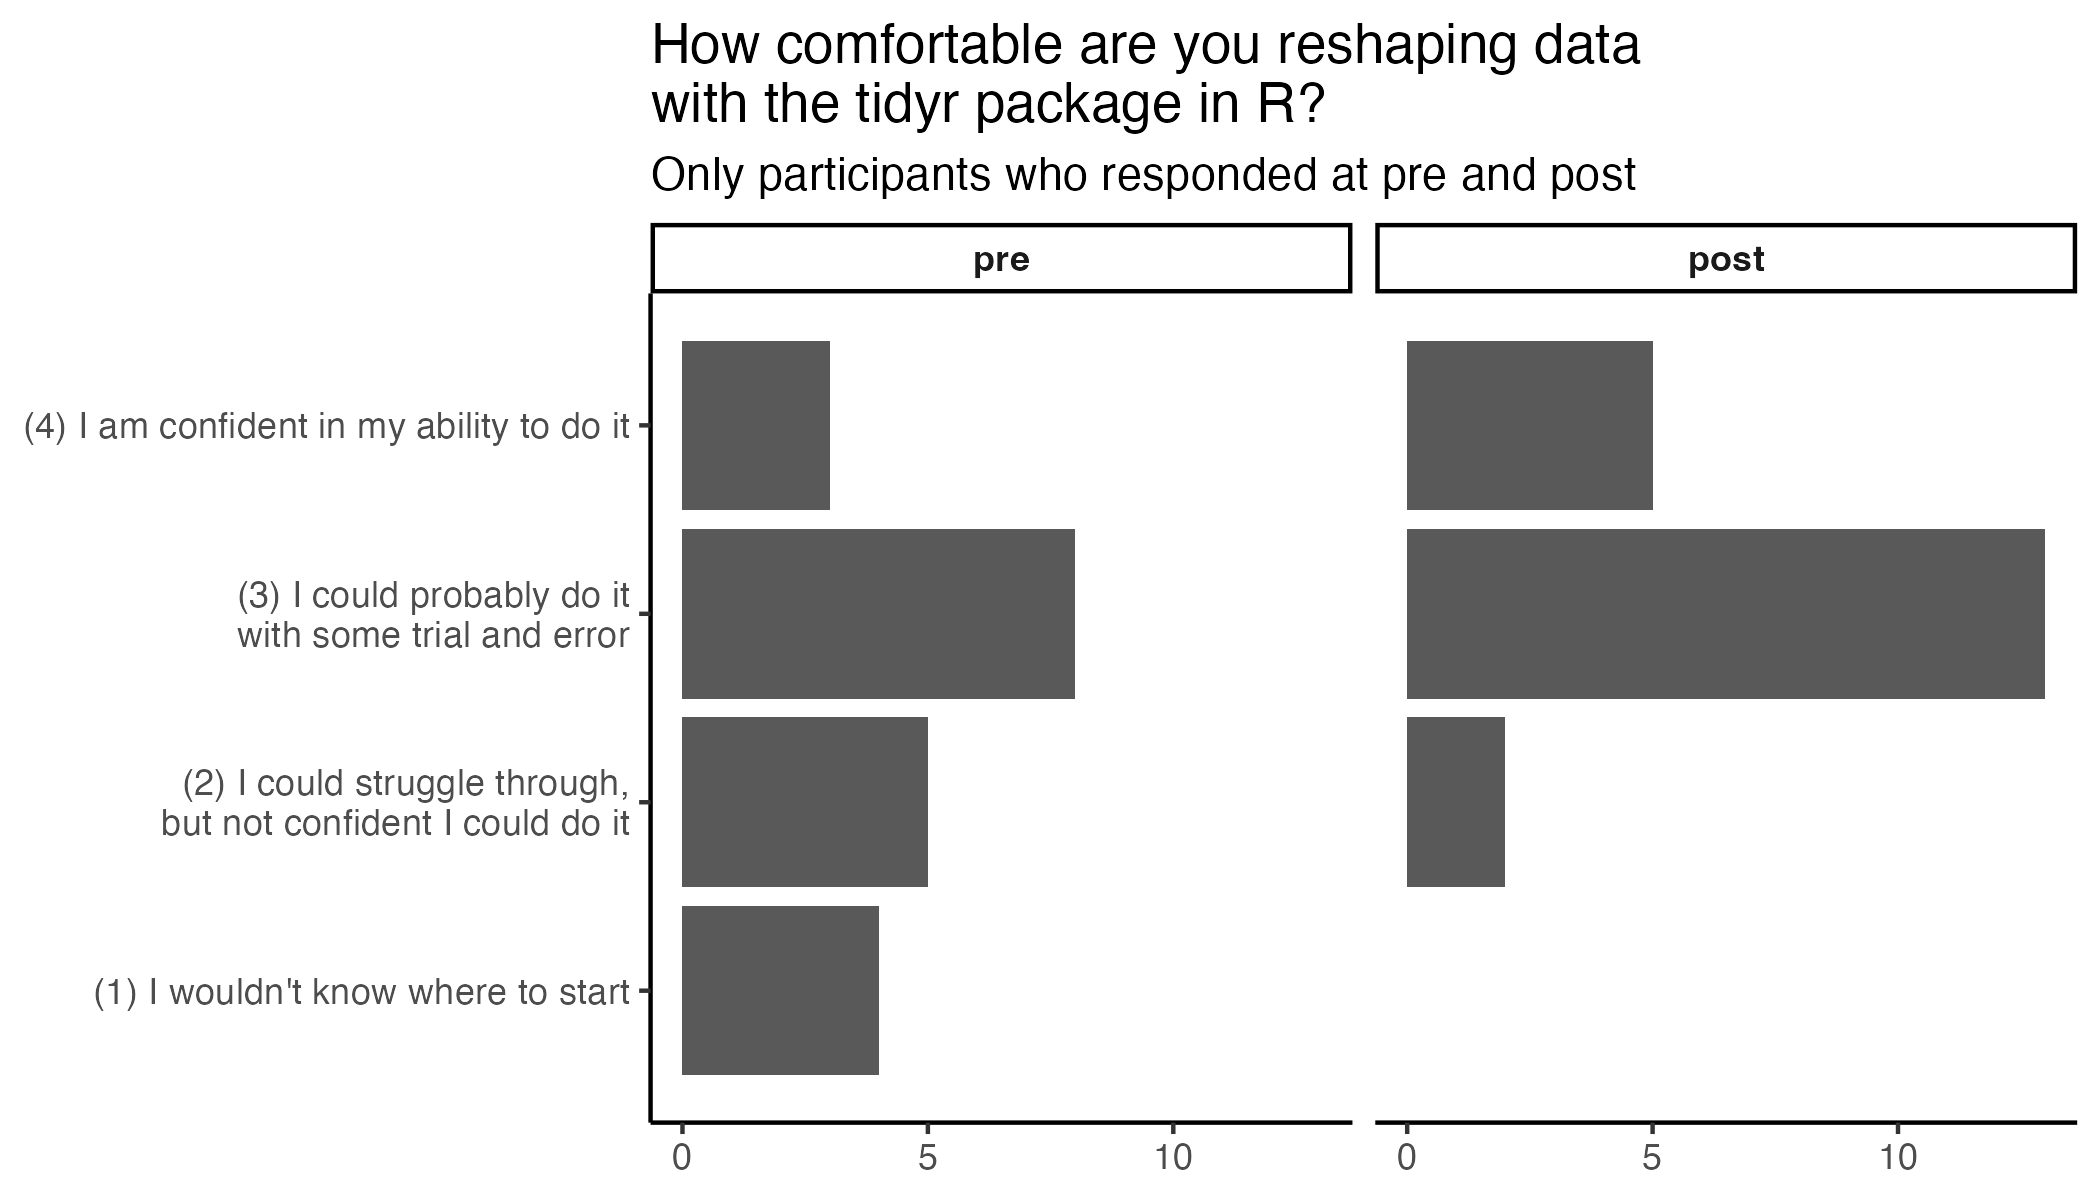
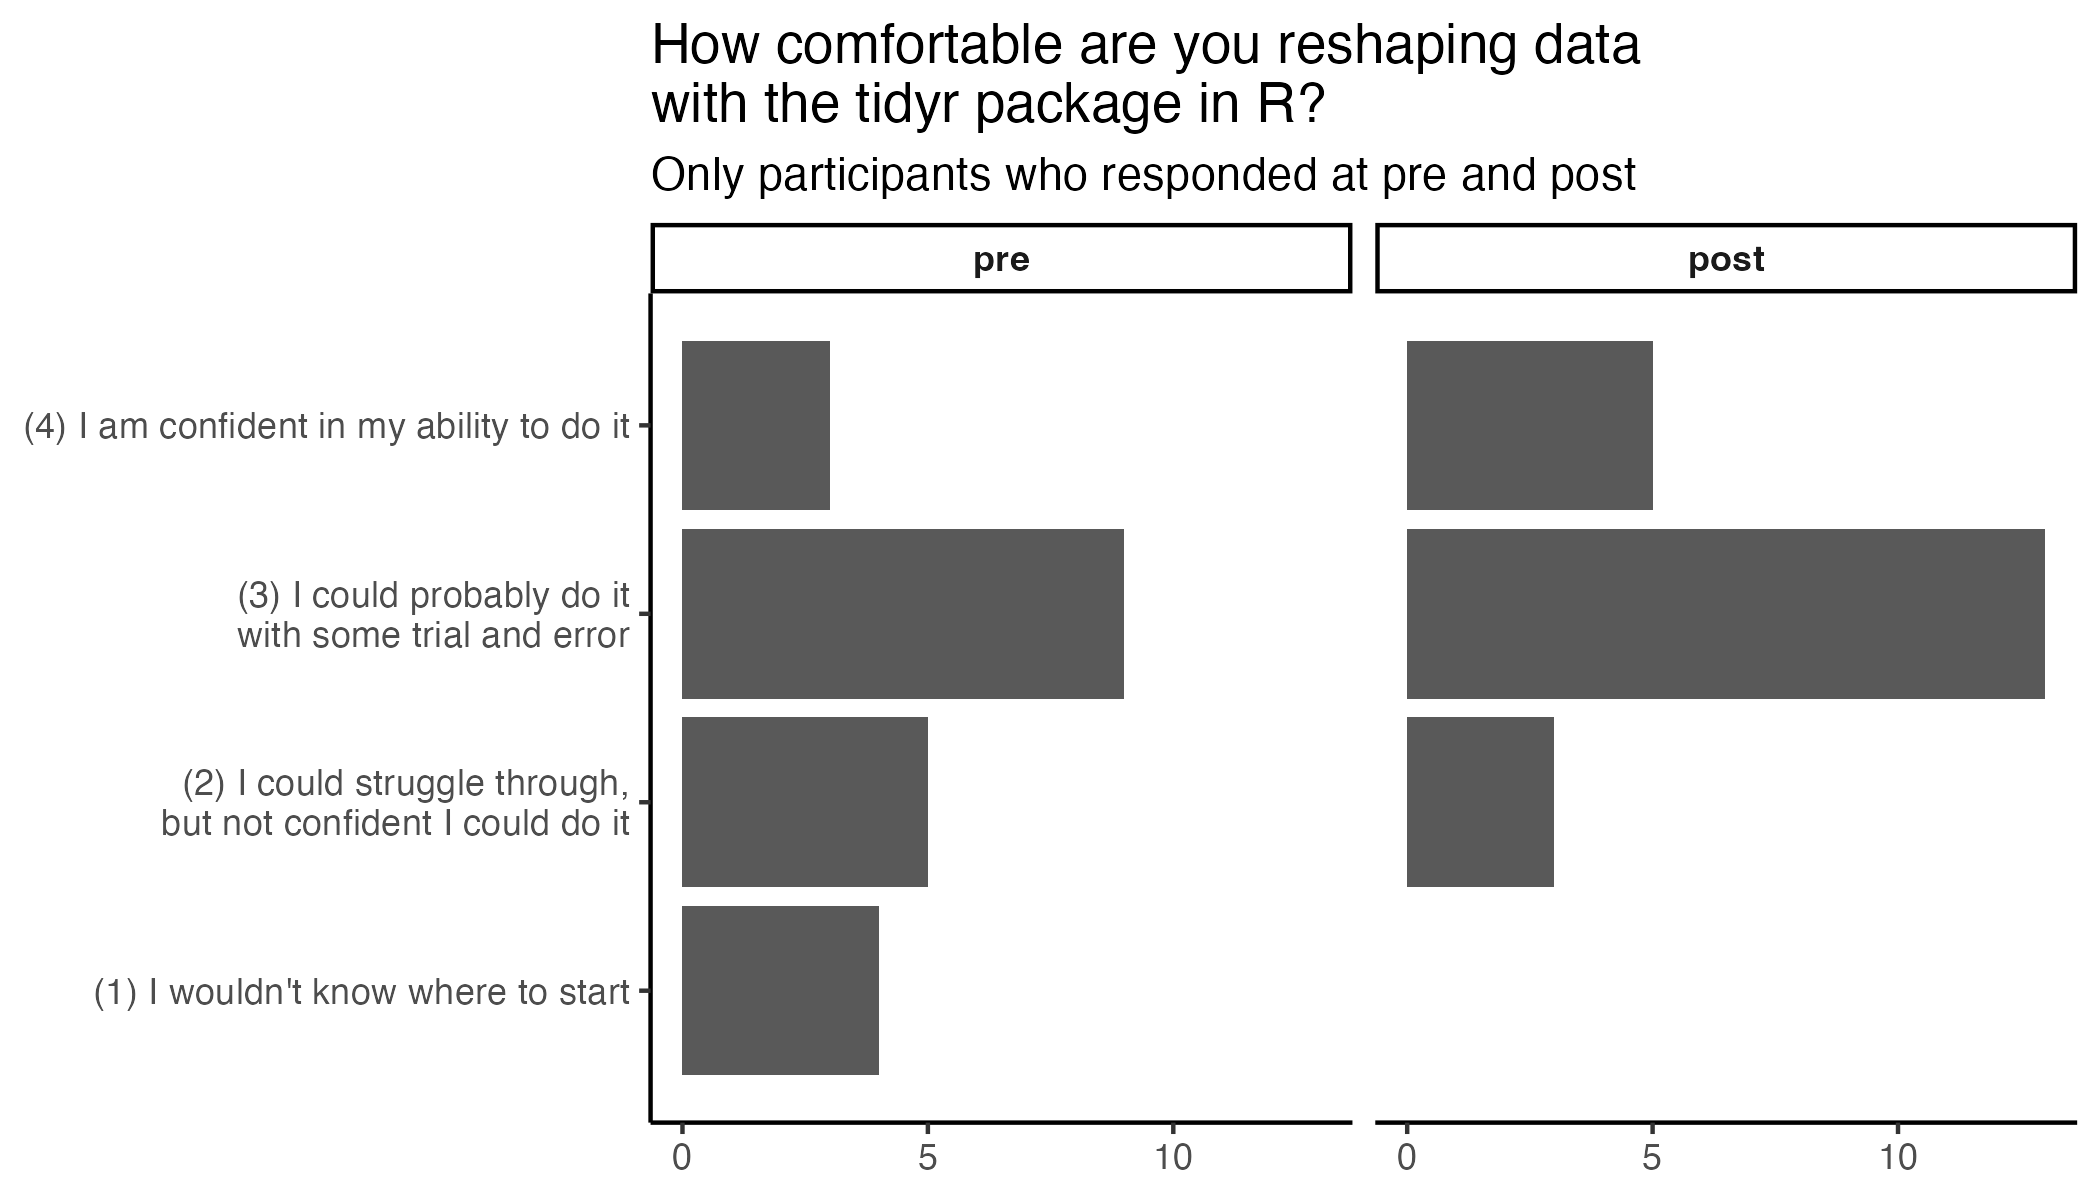
Updated with fresh data

Changed region(s): [[0.4952, 0.4317, 0.5571, 0.5858], [0.7119, 0.5858, 0.7429, 0.74]]

diff --git a/for_organizers/analysis.md b/for_organizers/analysis.md
@@ -1,7 +1,7 @@
 R102 Workshop Analysis
 ================
 Rose Hartman
-2024-06-03
+2024-06-04
 
 ``` r
 library(ggplot2)
@@ -116,6 +116,7 @@ r102 <- r102_raw |>
          ggplot2_2
          ) |> 
   # combine data from duplicate entries (people who registered more than once with the same email)
+  # note that we go with the "max" across the duplicates for each field
   group_by(email) |> 
   summarise(
     across(starts_with("attend_"), attend_max),
@@ -237,7 +238,7 @@ ggsave("prepost_03_all.png",
        height = 4, width = 7, units = "in")
 ```
 
-    ## Warning: Removed 309 rows containing non-finite outside the scale range
+    ## Warning: Removed 313 rows containing non-finite outside the scale range
     ## (`stat_count()`).
 
 ![](prepost_03_all.png)
@@ -291,7 +292,7 @@ ggsave("prepost_04_all.png",
        height = 4, width = 7, units = "in")
 ```
 
-    ## Warning: Removed 280 rows containing non-finite outside the scale range
+    ## Warning: Removed 284 rows containing non-finite outside the scale range
     ## (`stat_count()`).
 
 ![](prepost_04_all.png)
@@ -330,7 +331,7 @@ afterward, t(27) = 3.29, p = .003.
 
 202 signups.
 
-25 responses on post-workshop survey.
+26 responses on post-workshop survey.
 
 All available responses at pre and post:
 
@@ -345,7 +346,7 @@ ggsave("prepost_05_all.png",
        height = 4, width = 7, units = "in")
 ```
 
-    ## Warning: Removed 285 rows containing non-finite outside the scale range
+    ## Warning: Removed 288 rows containing non-finite outside the scale range
     ## (`stat_count()`).
 
 ![](prepost_05_all.png)
@@ -378,11 +379,11 @@ may_test <- t.test(r102$tidyr_2, r102$tidyr, paired = TRUE)
 
 We saw significant improvement from pre to post after the Reshaping Data
 with tidyr session, with respondents reporting higher ability afterward,
-t(19) = 2.94, p = .008.
+t(20) = 2.55, p = .019.
 
 ## Data types and viz
 
-225 signups.
+227 signups.
 
 0 responses on post-workshop survey.
 
